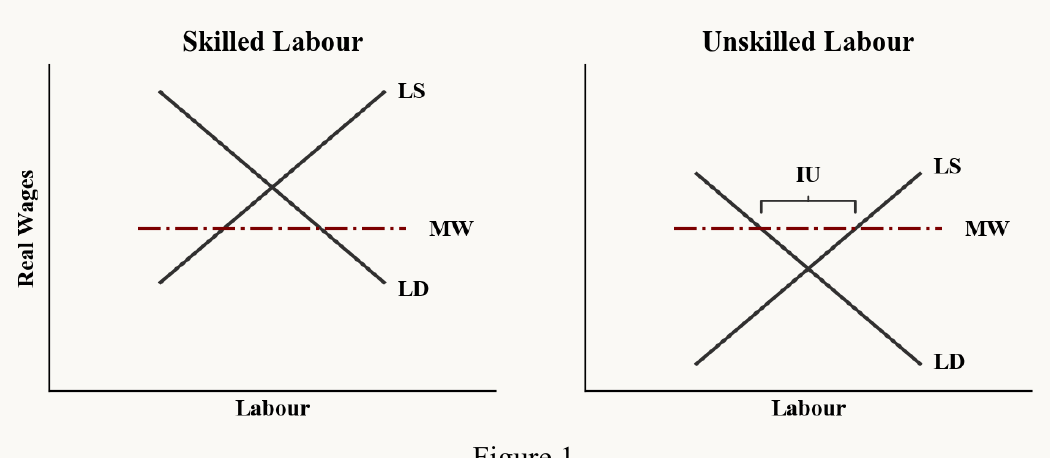
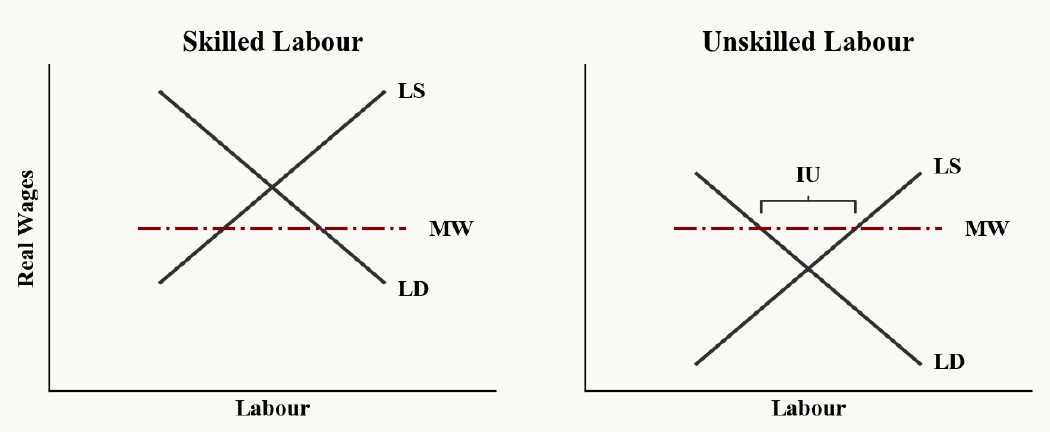
Minimum wage essay: trim stray caption from figure 1

diff --git a/minimum-wage-neuchatel.html b/minimum-wage-neuchatel.html
@@ -49,7 +49,7 @@
 <h2 style="margin: 48px 0 16px; font-weight: 500; font-size: 23px; line-height: 1.3">Theoretical and Empirical Foundation</h2>
 <p style="margin: 0 0 20px">Neoclassical economic theory predicts rather clearly the effects of minimum wages: were such minimum wages implemented, they would affect the economy only where they lay above the equilibrium real wage dictated by the market. There, however, they would increase involuntary unemployment by driving the marginal cost of labour up, and thereby reducing industry demand for it<sup id="fnref3"><a href="#fn3" aria-label="Footnote 3" style="color: #B5502F; text-decoration: none; font-family: Inter, system-ui, sans-serif; font-size: 12px; padding: 0 1px">3</a></sup>. In neoclassical economic theory, minimum wages are expected to lead to negative outcomes in the market economy by and large; predominantly affecting negatively the very demographic they are designed to support – low-skilled labour – as real wages on the high-skilled labour market tend to lie above the minimum real wage. Refer also to Figure 1 for a graphical derivation of the neoclassical argument.</p>
 <figure style="margin: 36px 0 36px; display: flex; flex-direction: column; gap: 12px">
-<img src="assets/minimum-wage-figure-1.png" width="1050" height="458" alt="Two supply-and-demand diagrams of real wages against labour. Skilled labour: the minimum wage lies below the equilibrium. Unskilled labour: the minimum wage lies above the equilibrium, leaving a gap of involuntary unemployment." loading="lazy" style="width: 100%; height: auto; display: block">
+<img src="assets/minimum-wage-figure-1.png" width="1050" height="432" alt="Two supply-and-demand diagrams of real wages against labour. Skilled labour: the minimum wage lies below the equilibrium. Unskilled labour: the minimum wage lies above the equilibrium, leaving a gap of involuntary unemployment." loading="lazy" style="width: 100%; height: auto; display: block">
 <figcaption style="font-family: Inter, system-ui, sans-serif; font-size: 14px; line-height: 1.6; color: #5E5D59"><span style="color: #141413; font-weight: 500">Figure 1:</span> Neoclassical analysis of minimum wage impact on the labour market. LS denotes labour supply, LD labour demand, MW minimum wage, and IU involuntary unemployment.</figcaption>
 </figure>
 <p style="margin: 0 0 20px">A contrarian to the Neoclassical argument manifests itself in the Keynesian analysis of the labour market. In Keynesian theory, macroeconomic aggregate demand is the main driver for economic growth, whilst the labour market plays but a secondary role in shaping the economic development. The main insight from Keynesian theory stems from its argumentation that minimum wages, which are negotiated nominally, have no effect on the real wage in the medium term. This is due to a raising of prices on the goods market due to higher marginal production costs. Another side effect is an increase in inflationary pressures<sup id="fnref4"><a href="#fn4" aria-label="Footnote 4" style="color: #B5502F; text-decoration: none; font-family: Inter, system-ui, sans-serif; font-size: 12px; padding: 0 1px">4</a></sup>, which are higher if nominal wages are increased swiftly. Therefore, minimum wages should be continually increased in order to lead to adequate income distribution-shifting effects, which may be desired for increased stability<sup id="fnref5"><a href="#fn5" aria-label="Footnote 5" style="color: #B5502F; text-decoration: none; font-family: Inter, system-ui, sans-serif; font-size: 12px; padding: 0 1px">5</a></sup>. These should be increased according to a nominal wage function – also referred to as wage norm –, given as follows<sup id="fnref6"><a href="#fn6" aria-label="Footnote 6" style="color: #B5502F; text-decoration: none; font-family: Inter, system-ui, sans-serif; font-size: 12px; padding: 0 1px">6</a></sup>:</p>
